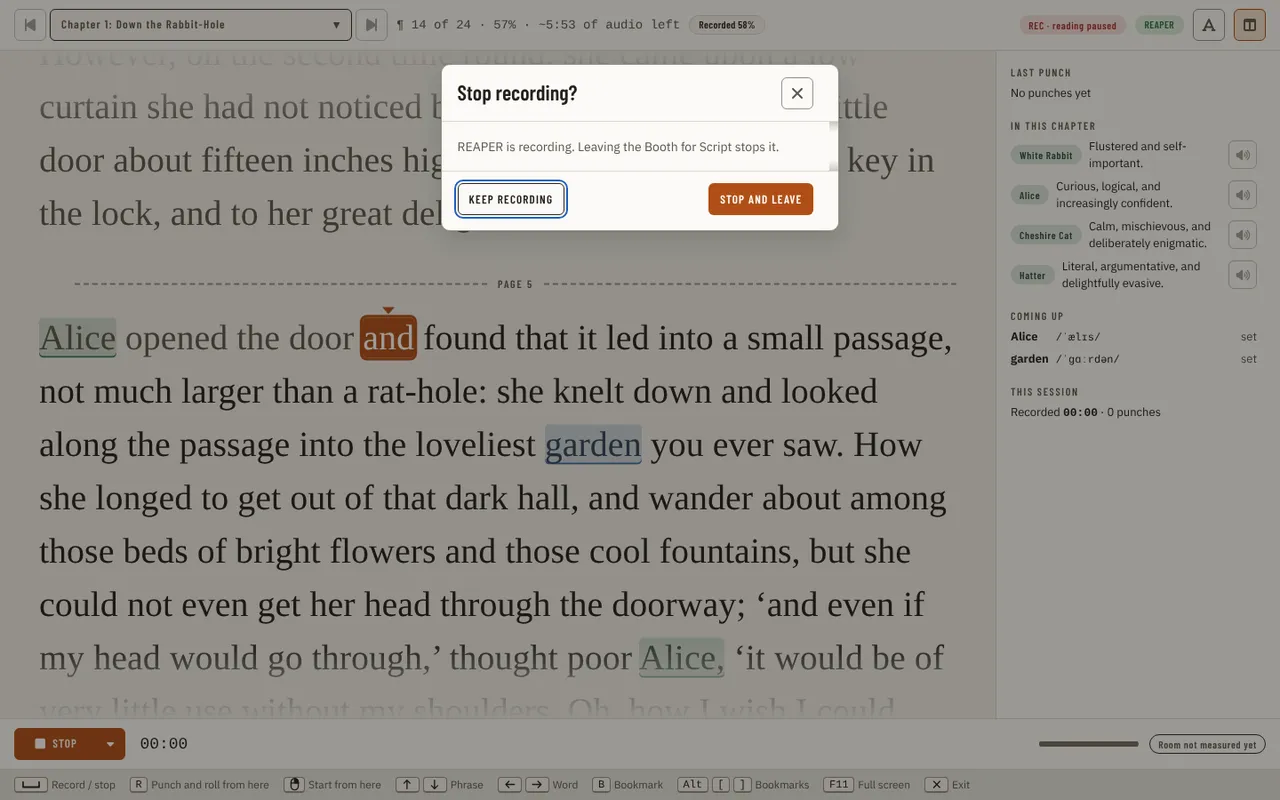
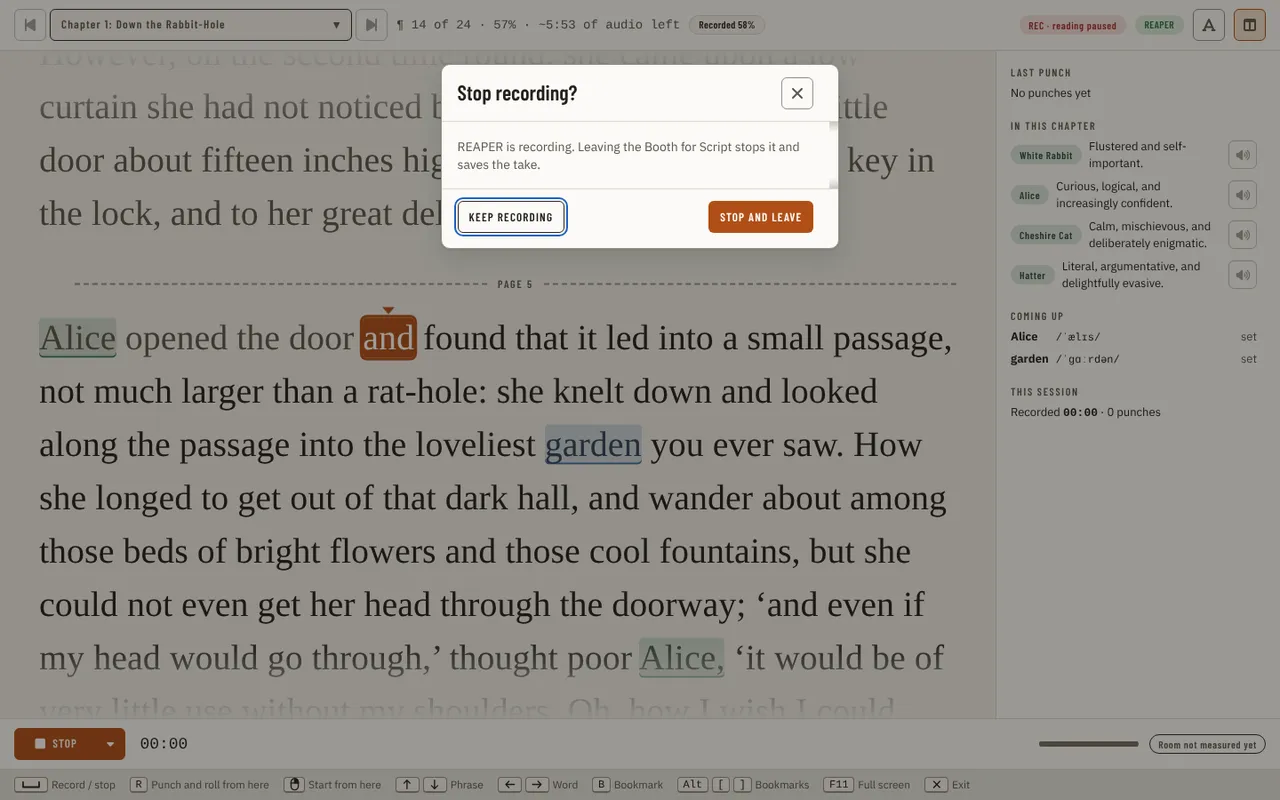
fix(ui): the chapter questions say open everywhere and the guide shows the new sentence (#3555)
Claude-Session: https://claude.ai/code/session_01EBTykfF8S1tcdZBrBVa1Yn

Changed region(s): [[0.3438, 0.1875, 0.6562, 0.3125]]

diff --git a/src/studio/ui/src/components/booth/page/useChapterNavigation.ts b/src/studio/ui/src/components/booth/page/useChapterNavigation.ts
@@ -40,7 +40,7 @@ export function useChapterNavigation({ requested, chapterId, recording, starting
   const requestedQuery = requested ? boothQuery(requested) : null;
   const followed = useRef({ requested, current, recording, starting, endUnconfirmed, leave, adopt, choose });
   followed.current = { requested, current, recording, starting, endUnconfirmed, leave, adopt, choose };
-  // The chapter the narrator already said yes to (Stop and leave, or Leave anyway) in the question a change from the picker, Next or Previous asked: writing it to the address
+  // The chapter the narrator already said yes to (Stop and open, or Open anyway) in the question a change from the picker, Next or Previous asked: writing it to the address
   // brings it back here as a request, and it must open, not ask a second time. The answer belongs to that one request: it is read once, by the next request whatever it asks for,
   // and never beats a take that records or starts (a running take always asks).
   const confirmed = useRef<{ chapter: string; at: number } | null>(null);
@@ -66,7 +66,7 @@ export function useChapterNavigation({ requested, chapterId, recording, starting
       return;
     }
     // A question this hook asked is still open (a stop that is waited on, a refusal on screen): a later chapter in the address replaces what that question opens, so
-    // Stop and leave or Leave anyway opens the chapter asked for last. The later request asks nothing and puts nothing back: the first question's answer does both.
+    // Stop and open or Open anyway opens the chapter asked for last. The later request asks nothing and puts nothing back: the first question's answer does both.
     if (pendingLeave.current) {
       pendingLeave.current.target = target;
       return;

diff --git a/src/studio/ui/tests/visual/booth-listening-owner.spec.ts b/src/studio/ui/tests/visual/booth-listening-owner.spec.ts
@@ -504,7 +504,7 @@ for (const meanwhile of ['the take ends', 'the Booth is left'] as const) {
       await page.keyboard.press('Escape');
       await page
         .getByRole('alertdialog')
-        .getByRole('button', { name: /^Stop and (leave|open)/ })
+        .getByRole('button', { name: /^Stop and leave/ })
         .click();
       await expect(page.getByRole('heading', { level: 1, name: 'Script' })).toBeVisible({ timeout: 8000 });
     }
@@ -617,7 +617,7 @@ const leaveDuringAdoptedStartAndReturn = async (page: Page, chapter: string) => 
   // The page's own listening for the adopted take is asked for and held. The narrator leaves again (REAPER does not answer the stop) and comes back.
   await expect.poll(async () => (await calls(page)).listeningStarts, { timeout: 10_000 }).toBe(2);
   await page.keyboard.press('Escape');
-  await question.getByRole('button', { name: /^Stop and (leave|open)/ }).click();
+  await question.getByRole('button', { name: /^Stop and leave/ }).click();
   await expect(anyway).toBeVisible({ timeout: 8000 });
   await page.waitForTimeout(600);
   await anyway.click();
@@ -653,7 +653,7 @@ test('a listening handed to a Booth that is then left with Leave anyway is let g
   await page.waitForTimeout(500);
   expect(await phaseOf(page)).toBe('running');
   await page.keyboard.press('Escape');
-  await question.getByRole('button', { name: /^Stop and (leave|open)/ }).click();
+  await question.getByRole('button', { name: /^Stop and leave/ }).click();
   await expect(anyway).toBeVisible({ timeout: 8000 });
   await page.waitForTimeout(600);
   await anyway.click();

diff --git a/src/studio/ui/src/components/booth/leave/useBoothLeaveGuard.test.tsx b/src/studio/ui/src/components/booth/leave/useBoothLeaveGuard.test.tsx
@@ -434,6 +434,19 @@ describe('useBoothLeaveGuard', () => {
     });
   });
 
+  it('a refused stop on a chapter question says it opens: Open anyway, and "open it anyway" in the sentence', async () => {
+    const refusal: DawResult = { ok: false, changed: false, message: 'Disk full.', undoSteps: 0, refused: 'Disk full.' };
+    const { go, hook, dialog } = setup({}, async () => refusal);
+    act(() => void hook.result.current.leave('/booth?chapter=chapter-2', go));
+    act(() => dialog()!.answer(true));
+    await flush();
+    await flush();
+    expect(dialog()?.spec.confirmLabel).toBe('Open anyway');
+    expect(dialog()?.spec.body).toContain('You can open it anyway, but it may keep recording.');
+    expect(dialog()?.spec.body).not.toContain('leave');
+    act(() => dialog()!.answer(false));
+  });
+
   it('a refused stop does not trap the narrator: Leave anyway goes without a second stop', async () => {
     const refusal: DawResult = { ok: false, changed: false, message: 'REAPER is not answering.', undoSteps: 0, refused: 'REAPER is not answering.' };
     const { go, hook, dialog, stopRecording } = setup({}, async () => refusal);

diff --git a/src/studio/ui/src/components/booth/leave/useBoothLeaveGuard.ts b/src/studio/ui/src/components/booth/leave/useBoothLeaveGuard.ts
@@ -276,7 +276,7 @@ export function useBoothLeaveGuard(session: BoothLeaveSession, { guard, overlay 
             // The labels of the question as the DAW is now: a take that went quiet after "Keep recording" was offered offers "Stay", as the unconfirmed question does.
             ...stopRecordingSpec(now.daw.name, startedByApp, false, destination, unconfirmedEnd(sessionRef.current)),
             title: 'Could not stop the take',
-            body: `${sentence.charAt(0).toUpperCase()}${sentence.slice(1)} You can leave anyway, but it may keep recording.`.trim(),
+            body: `${sentence.charAt(0).toUpperCase()}${sentence.slice(1)} You can ${destination === 'Booth' ? 'open it' : 'leave'} anyway, but it may keep recording.`.trim(),
             confirmLabel: destination === 'Booth' ? CHAPTER_OPEN_ANYWAY : 'Leave anyway',
             // A double-click on "Stop and leave" must not land on the "Leave anyway" that replaces it before the sentence can be read.
             armAfterMs: LEAVE_ANYWAY_ARM_MS,

diff --git a/src/studio/ui/src/components/booth/leave/stopRecordingSpec.test.ts b/src/studio/ui/src/components/booth/leave/stopRecordingSpec.test.ts
@@ -32,6 +32,11 @@ describe('stopRecordingSpec', () => {
     }
   });
 
+  it('a chapter question asked while a take is only starting says it opens, in its title too', () => {
+    expect(stopRecordingSpec('REAPER', true, true, 'Booth').title).toBe('Open while a take is starting?');
+    expect(stopRecordingSpec('REAPER', true, true, 'Script').title).toBe('Leave while a take is starting?');
+  });
+
   it('every other exit keeps Stop and leave and has no focus to hand back', () => {
     for (const unconfirmed of [false, true]) {
       const spec = stopRecordingSpec('REAPER', true, false, 'Script', unconfirmed);

diff --git a/src/studio/ui/src/components/booth/leave/stopRecordingSpec.ts b/src/studio/ui/src/components/booth/leave/stopRecordingSpec.ts
@@ -39,7 +39,7 @@ export function stopRecordingSpec(dawName: string, startedByApp: boolean, startP
   if (startPending) {
     // The DAW has not said it records: the question never claims it does. It closes by itself if the start ends with no take.
     return {
-      title: 'Leave while a take is starting?',
+      title: opens ? 'Open while a take is starting?' : 'Leave while a take is starting?',
       body: `${subject} is starting a take. ${leaving} stops it once it has started.`,
       confirmLabel: stopLabel,
       cancelLabel: 'Stay',

diff --git a/src/studio/ui/tests/visual/booth-leave-words.spec.ts b/src/studio/ui/tests/visual/booth-leave-words.spec.ts
@@ -62,6 +62,8 @@ test('a link to another chapter during a take says it opens a chapter: Stop and 
   const refused = page.getByRole('alertdialog', { name: 'Could not stop the take' });
   await expect(refused).toBeVisible();
   await expect(refused.getByRole('button', { name: 'Open anyway' })).toBeVisible();
+  await expect(refused).toContainText('You can open it anyway');
+  await expect(refused).not.toContainText('leave anyway');
   await expect(refused.getByRole('button', { name: 'Leave anyway' })).toHaveCount(0);
 });
 

diff --git a/docs/guides/using-the-app/booth.md b/docs/guides/using-the-app/booth.md
@@ -35,7 +35,7 @@ Before you start: a manuscript is imported, and the project records with REAPER,
 6. **Fix a mistake as you go.** Punch and roll is the narrator's retake: the DAW plays a moment of what you read before
    and records again from a chosen word. **R** does it from the word you are on: the DAW's cursor goes there and
    recording starts. Click a word, or use **Start from here**, to choose where.
-7. **Leave** with Escape, which goes to Script. During a take the app started, these ways out ask **Stop recording?** first: Escape, the setup chip, a link that opens another chapter, the jump menu (Ctrl+K, **Switch project…** included), Ctrl+, and the other shortcuts that open a page, and the Back and Forward of the browser, the mouse buttons and Alt+Left. The question names where you are going ("REAPER is recording. Leaving the Booth for Script stops it and saves the take."; no page is named for an address the rail does not own, nor for Back and Forward, which do not know where they land: "Leaving the Booth stops it and saves the take."). A link that opens another chapter of the Booth reads "Opening another chapter stops it and saves the take.", and **Stop reading?** names the page too. If REAPER stopped answering during the take (the Booth says it can't tell whether the take is still running), the question is titled for the page, **Leave for Script?**, not **Stop recording?** (which would claim the take is running), and says "REAPER may still be recording. Leaving tries to stop the take.", with **Stay** (not "Keep recording", which would claim the take is recording) and **Stop and leave**; a link to another chapter, Next chapter, Previous chapter, the chapter picker and a chapter row of the jump menu ask **Open another chapter?** instead, with "REAPER may still be recording. Opening another chapter tries to stop the take." and **Stay** and **Stop and open** (you stay in the Booth, so it does not say leave); if the stop then fails, **Could not stop the take** offers **Stay** too. When **Stop and leave** has stopped the take, **Take saved** shows with its **Undo**, as after a plain Stop, and stays up for 5 seconds, or until you move on from the page you land on. In a pickup session it reads **Take saved · 1 pickup marked recorded**, and over suspected lines **Take saved · 2 suspected lines added to Pickups**, with no **Undo**. To take it back, undo the marks or lines first and then the take, from the [undo history](navigation.md#the-header-and-the-footer) (Ctrl+Shift+H). It is an ordinary 5-second message, so it can follow you to the next page for a few seconds. A take REAPER started itself is not the app's: leaving asks nothing and does not stop it. A Record that is still starting counts as a take: it asks too (the question is then titled "Leave while a take is starting?" with **Stay** and **Stop and leave**, says the DAW is starting a take, not that it records, and closes by itself if the start ends with no take, leaving you in the Booth with the press's sentence; if the start lands as a take while it is open, it is asked again as **Stop recording?**), and **Stop and leave** waits for the start to land, then stops it (the wait, the stop and the writing of what the take left behind each give up after 8 seconds: a stop that does not answer ends in **Could not stop the take** below, and a run that is not written in time does not hold you; **Stopping the take…** stays up while it waits, and comes back if you close it and try another way out; a take that the DAW itself reports as ended while it waits leaves with no **Could not stop the take**, but a DAW that goes quiet, before you leave, while the question is open or during the wait, is not taken for an ended take: leaving asks the question above and **Stop and leave** still tries the stop: the stop's refusal question still asks, because that take may still be recording). Enter and Space do nothing for the first 0.4 seconds after a question appears, so a double Enter on a jump menu row does not answer the question that row raised. Holding Enter or Space does not answer it either: let go and press again. A key you held to answer it does not go on pressing the button focus returns to (Stop or Record) once the question has closed. The question follows REAPER while it is open: if REAPER stops answering it is asked again as **Leave for Script?** with **Stay**, and if REAPER answers again with a take of its own, **Stop and leave** stops that take too and does not leave it recording. A link to a chapter the manuscript lacks does not take the Booth away during a take: it asks like any other chapter. A malformed address says what is wrong in a message, is put back to the address the Booth had and is ignored, so ending the take does not turn it into the "could not be opened" card. A second chapter link arriving while a question is open replaces the first, so **Stop and leave** or **Leave anyway** opens the one asked for last. **Keep recording** stays in the Booth with the take still running, and a Back pressed while a question or dialog is open does nothing more. If the DAW refuses the stop, the Booth stays and says **Could not stop the take** with the DAW's words; **Leave anyway** then leaves with the take possibly still recording, the same way from each of those exits; from a chapter question it opens the chapter, with no second question (there the refusal's button reads **Open anyway**, and **Stay** or Escape on a chapter question puts focus back on the chapter picker). Changing chapter inside the Booth during a take is refused ("Stop recording first."); when REAPER stopped answering it asks the question above instead. Closing the window, reloading it, and a Back from the first page the window opened on are not asked, and the take keeps recording. After a reload the Booth treats REAPER's take as one it did not start, so stop it in REAPER.
+7. **Leave** with Escape, which goes to Script. During a take the app started, these ways out ask **Stop recording?** first: Escape, the setup chip, a link that opens another chapter, the jump menu (Ctrl+K, **Switch project…** included), Ctrl+, and the other shortcuts that open a page, and the Back and Forward of the browser, the mouse buttons and Alt+Left. The question names where you are going ("REAPER is recording. Leaving the Booth for Script stops it and saves the take."; no page is named for an address the rail does not own, nor for Back and Forward, which do not know where they land: "Leaving the Booth stops it and saves the take."). A link that opens another chapter of the Booth reads "Opening another chapter stops it and saves the take.", and **Stop reading?** names the page too. If REAPER stopped answering during the take (the Booth says it can't tell whether the take is still running), the question is titled for the page, **Leave for Script?**, not **Stop recording?** (which would claim the take is running), and says "REAPER may still be recording. Leaving tries to stop the take.", with **Stay** (not "Keep recording", which would claim the take is recording) and **Stop and leave**; a link to another chapter, Next chapter, Previous chapter, the chapter picker and a chapter row of the jump menu ask **Open another chapter?** instead, with "REAPER may still be recording. Opening another chapter tries to stop the take." and **Stay** and **Stop and open** (you stay in the Booth, so it does not say leave); if the stop then fails, **Could not stop the take** offers **Stay** too. When **Stop and leave** has stopped the take, **Take saved** shows with its **Undo**, as after a plain Stop, and stays up for 5 seconds, or until you move on from the page you land on. In a pickup session it reads **Take saved · 1 pickup marked recorded**, and over suspected lines **Take saved · 2 suspected lines added to Pickups**, with no **Undo**. To take it back, undo the marks or lines first and then the take, from the [undo history](navigation.md#the-header-and-the-footer) (Ctrl+Shift+H). It is an ordinary 5-second message, so it can follow you to the next page for a few seconds. A take REAPER started itself is not the app's: leaving asks nothing and does not stop it. A Record that is still starting counts as a take: it asks too (the question is then titled "Leave while a take is starting?" ("Open while a take is starting?" for another chapter) with **Stay** and **Stop and leave** (**Stop and open**), says the DAW is starting a take, not that it records, and closes by itself if the start ends with no take, leaving you in the Booth with the press's sentence; if the start lands as a take while it is open, it is asked again as **Stop recording?**), and **Stop and leave** waits for the start to land, then stops it (the wait, the stop and the writing of what the take left behind each give up after 8 seconds: a stop that does not answer ends in **Could not stop the take** below, and a run that is not written in time does not hold you; **Stopping the take…** stays up while it waits, and comes back if you close it and try another way out; a take that the DAW itself reports as ended while it waits leaves with no **Could not stop the take**, but a DAW that goes quiet, before you leave, while the question is open or during the wait, is not taken for an ended take: leaving asks the question above and **Stop and leave** still tries the stop: the stop's refusal question still asks, because that take may still be recording). Enter and Space do nothing for the first 0.4 seconds after a question appears, so a double Enter on a jump menu row does not answer the question that row raised. Holding Enter or Space does not answer it either: let go and press again. A key you held to answer it does not go on pressing the button focus returns to (Stop or Record) once the question has closed. The question follows REAPER while it is open: if REAPER stops answering it is asked again as **Leave for Script?** with **Stay**, and if REAPER answers again with a take of its own, **Stop and leave** stops that take too and does not leave it recording. A link to a chapter the manuscript lacks does not take the Booth away during a take: it asks like any other chapter. A malformed address says what is wrong in a message, is put back to the address the Booth had and is ignored, so ending the take does not turn it into the "could not be opened" card. A second chapter link arriving while a question is open replaces the first, so **Stop and open** or **Open anyway** opens the one asked for last. **Keep recording** stays in the Booth with the take still running, and a Back pressed while a question or dialog is open does nothing more. If the DAW refuses the stop, the Booth stays and says **Could not stop the take** with the DAW's words; **Leave anyway** then leaves with the take possibly still recording, the same way from each of those exits; from a chapter question it opens the chapter, with no second question (there the refusal's button reads **Open anyway**, and **Stay** or Escape on a chapter question puts focus back on the chapter picker). Changing chapter inside the Booth during a take is refused ("Stop recording first."); when REAPER stopped answering it asks the question above instead. Closing the window, reloading it, and a Back from the first page the window opened on are not asked, and the take keeps recording. After a reload the Booth treats REAPER's take as one it did not start, so stop it in REAPER.
 
 [Recording](#recording) has the detail of each step, [Undoing a take](#undoing-a-take) what Undo can take back, and
 [A cold read](#a-cold-read) how to read a passage through without recording it. Recording from the Booth is not
@@ -600,10 +600,10 @@ press **Check recordings** chapter by chapter.
 ## Leaving the Booth
 
 Escape (when nothing is open on top of the Booth) takes you to Script. A [cold read](#a-cold-read) ends without a question. While a take the app started is recording, the ways out that go through the app ask first (Escape, Back, Forward, the jump menu and the shortcuts that open a page, the setup chip, a link that opens another chapter, and a Record that is still starting); closing or reloading the window and a Back from the first page the window opened on do not. "Stop recording?" says the DAW is recording and leaving
-stops it. The take is held while the question is open. Focus opens on **Keep recording**, so Enter stays; **Stop and leave** stops the recording and then leaves. When the question closes, focus is where it was before it opened, so Enter never moves you to another chapter mid-take. If the DAW was already recording
+stops it and saves the take. The take is held while the question is open. Focus opens on **Keep recording**, so Enter stays; **Stop and leave** stops the recording and then leaves (**Stop and open** when the way out is another chapter, since you stay in the Booth). When the question closes, focus is where it was before it opened, so Enter never moves you to another chapter mid-take; a question asked from the chapter picker puts focus back on the picker. If the DAW was already recording
 when you came in, the Booth did not start that take and does not stop it, and leaving asks nothing.
 
-If the stop does not go through, the question stays open with the DAW's sentence and **Leave anyway**, and the take may keep recording. When that way out is to another chapter while the take's listening was still starting, and that listening then fails, never answers, or comes up after you left (and is let go), the other chapter shows the take as recording and, once nothing is listening to it, the Booth says "The text could not follow your voice for the take that is still recording. Press Stop, then record again." The page decides from what it shows then: it says nothing if the take already ended (in the DAW or by you), if the listening it started for the take is running or is still being started (a take the page picks up from the DAW after the failure gets a listening of its own, after ending a cold read if one is running), if you pressed Record again meanwhile, or if its own listening already said it could not follow. It stops nothing itself, because that take is yours to end, and the sentence goes when the take ends. It says nothing when the way out was to another page (the sentence names a Stop that is not on that page).
+If the stop does not go through, the question stays open with the DAW's sentence and **Leave anyway** (**Open anyway** for another chapter), and the take may keep recording. When that way out is to another chapter while the take's listening was still starting, and that listening then fails, never answers, or comes up after you left (and is let go), the other chapter shows the take as recording and, once nothing is listening to it, the Booth says "The text could not follow your voice for the take that is still recording. Press Stop, then record again." The page decides from what it shows then: it says nothing if the take already ended (in the DAW or by you), if the listening it started for the take is running or is still being started (a take the page picks up from the DAW after the failure gets a listening of its own, after ending a cold read if one is running), if you pressed Record again meanwhile, or if its own listening already said it could not follow. It stops nothing itself, because that take is yours to end, and the sentence goes when the take ends. It says nothing when the way out was to another page (the sentence names a Stop that is not on that page).
 
 ![Booth - Escape during a take asks "Stop recording?", with the take held until the narrator answers](../../images/ui/booth-flag.webp)
 

diff --git a/docs/design/design-system.md b/docs/design/design-system.md
@@ -87,7 +87,7 @@ Location: `src/studio/ui/src/components/primitives/`.
 | `LevelMeter` | Peak/RMS audio level meter with safe, hot and clipped zones, replacing the teleprompter-local `InputLevelMeter` | `peak` and `rms` in dBFS (either `null` before a reading arrives); `floor` (default −60) and `ceiling` (default −3, ACX's peak ceiling) are props rather than fixed, since both are still "to verify" and other delivery platforms may differ; `size` (`compact`, `regular`, `booth`) and `decorative`. A position-graded LED ladder — each segment lit at its own zone colour once the reading reaches it, not one flat fill colour for the whole bar. `role="meter"` with `aria-valuetext` throttled to once a second, as `InputLevelMeter` did; the dBFS-to-percent map, the zone a reading falls in and the peak-hold ballistics live in `src/levelMeter.ts`, shared with `useInputLevel` |
 | `CompactShell` | Narrow (320-480 px) companion-panel layout: a header (`title`, `status`, one `action`) above stacked sections | Two landmarks only: the header is the page's `banner`, named by `title`, drawn with the `Heading` primitive as its level-1 heading (#2649); the sections sit in one `main`. `status` and `action` are slots the caller fills (a `StatusBadge`, a `Button`), not primitives this one imports. Always-on-top and the window itself are the host's, not this primitive's |
 | `Toolbar` (with `ToolbarButton`) | Roving-tabindex command bar (WAI-ARIA APG toolbar pattern), on Base UI's `@base-ui/react/toolbar` | `label` names the `toolbar` role; one tab stop, arrow keys rove (`orientation` picks Left/Right or Up/Down); Home and End jump to the first and last item — the installed part gives the roving tabindex and arrows but not Home/End, so this primitive adds that step itself and lets each item's own focus event keep Base UI's index in sync. `ToolbarButton`'s `render` composes the library's own `Button` or `IconButton`, the same pattern as `Menu`'s trigger; `disabled` with `focusableWhenDisabled={false}` takes an item out of the rotation entirely |
-| `ChapterStepper` | The chapter bar: previous, a picker of every chapter, next | `chapters` (`{ id, name, detail? }`: `detail` is a short muted note drawn after the name in the list only, right-aligned and never wrapping, so a long name truncates before it; the Booth, Editing and Proof put how far the chapter is recorded there), `value` (a chapter id, or `ALL_CHAPTERS` when `allowAll` adds "All chapters" on top), `onChange(id)`, `onStep(direction)`, and `stepKeys`, the two keys the page binds, named in the arrows' tooltips (`['←', '→']` on Proof, `['Alt+↑', 'Alt+↓']` elsewhere; the Booth binds none and leaves it out, and its tips name no key). One `group` named "Chapter"; the arrows are `IconButton`s that use `disabledReason` at the first and last chapter, so they stay focusable; `disabled` (a sentence: a take is running) turns the arrows and the picker off, and the picker's wrapper becomes the tab stop that carries the sentence (`TooltipTarget`'s disabled-child case), so the off picker says why; the picker is a Base UI menu of radio items on a `Button` at the mock's fixed 340 px from 860 px up, whatever the chapters are called and while they load, so the arrows beside it never move (alignment audit cause M); below that it takes the room left and truncates its label, drawn in the chapter's own case (`normal-case`; the Button's capitals drew the name in CSS capitals, alignment audit R3PK-4). The list is capped to the room the window leaves under the picker (`--available-height`), so it scrolls inside itself in a short window instead of running off the bottom. Presentational: the page owns the chapter and decides what a step means |
+| `ChapterStepper` | The chapter bar: previous, a picker of every chapter, next | `chapters` (`{ id, name, detail? }`: `detail` is a short muted note drawn after the name in the list only, right-aligned and never wrapping, so a long name truncates before it; the Booth, Editing and Proof put how far the chapter is recorded there), `value` (a chapter id, or `ALL_CHAPTERS` when `allowAll` adds "All chapters" on top), `onChange(id)`, `onStep(direction)`, and `stepKeys`, the two keys the page binds, named in the arrows' tooltips (`['←', '→']` on Proof, `['Alt+↑', 'Alt+↓']` elsewhere; the Booth binds none and leaves it out, and its tips name no key). One `group` named "Chapter"; the arrows are `IconButton`s that use `disabledReason` at the first and last chapter, so they stay focusable; `disabled` (a sentence: a take is running) turns the arrows and the picker off, and the picker's wrapper becomes the tab stop that carries the sentence (`TooltipTarget`'s disabled-child case), so the off picker says why; the picker is a Base UI menu of radio items on a `Button` at the mock's fixed 340 px from 860 px up, whatever the chapters are called and while they load, so the arrows beside it never move (alignment audit cause M); below that it takes the room left and truncates its label, drawn in the chapter's own case (`normal-case`; the Button's capitals drew the name in CSS capitals, alignment audit R3PK-4). The list is capped to the room the window leaves under the picker (`--available-height`), so it scrolls inside itself in a short window instead of running off the bottom. The picker button carries `data-chapter-picker`: a question asked about opening another chapter (the Booth's leave question while a take records) names it as the place focus returns to when the narrator stays, since the menu item that raised the question is gone by then (#3555). Presentational: the page owns the chapter and decides what a step means |
 | `Timeline` (with `TimelineLane`) | Time axis over a `duration`, an optional `playhead` line and a decorative `backdrop`, with one or more lanes of markers (a proof pass, the research mock's Proof page) | `Timeline` positions its `playhead` and its children's markers as percentages of `duration`, so a long recording never overflows sideways; `backdrop` (a waveform the feature draws) sits under the lanes, `aria-hidden` - the primitive draws no audio. `TimelineLane` takes `markers: { id, at, tone, label }[]` and `onActivate(id)`; its markers are one roving-focus group named by `label`: Left/Right step between them, Home/End jump to the first/last, Enter or Space activates the focused one; each marker is named by its time and label. `tone` is `neutral`/`info`/`success`/`warning`/`danger`, the meanings the studio primitives token batch fills |
 | `CheckedStamp` (`useCheckedAt`) | The answer to a "Check again" that finds the same thing | Draws "Checked 3:42:07 PM" (clock time of the last finished read, to the second) as a `role="status"`, and nothing before the first read; from the second read on it adds the count, "(2)", so two reads in one second still differ; set it when the read ends, not when it is asked for (#3276: a re-read that changes nothing must still answer) |
 | `StatusBadge` (`Badge`, `Dot`) | A closed set of status meanings, drawn in one of four shapes | `tone` is `neutral`, `info`, `progress`, `accent`, `success`, `warning`, `danger` or `org`; `shape` is `pill` (22 px, fully rounded — resolution, summary, rail status), `tag` (15–16 px, ≈3 px radius — the Proof type tag, `SpeakerTag`'s base), `booth` (≈26 px, the Booth's larger speaker tag) or `cell` (24 px tall, at least 52 px wide, 4 px radius, Plex Mono 500 at 12 px — the mock's `.cell`; the Production pipeline's and `StageGrid`'s cells, an empty one filled, not outlined); `look` is `soft` (a tint of the tone, the mocks' `-soft` family — `--ok-soft`/`--warn-soft`/`--info-soft`/`--danger-soft`/`--accent-soft`/`--org-soft`; `neutral`'s fill is `--surface-2`, which vanished on a `--surface-2` card, so its soft pill keeps a `--border` rim, alignment audit XSE2-7) or `outline` (hollow, the tone's line colour, the dark sets' "TO VERIFY"/"CHANGED" badges). `Badge` is the shape with no status meaning attached (a caller that already has its own colours); `Dot` is a `role="img"` mark named by `label`, no visible text, for a dense list; `variant="icon"` is the same mark drawn as the `icon` in the tone's colour with `label` in a tooltip and as its name, focusable, for a row that needs its width for text (Chapter links, #3274: the catalogue's `statusLinked`, `statusNotLinked`, `statusTrackMissing` and `statusSeveral`). `label` is the accessible name; `icon` is decorative and pill/tag only. `src/chapterStatus.ts`'s `STATUS_TONE` maps the five chapter statuses onto it |
